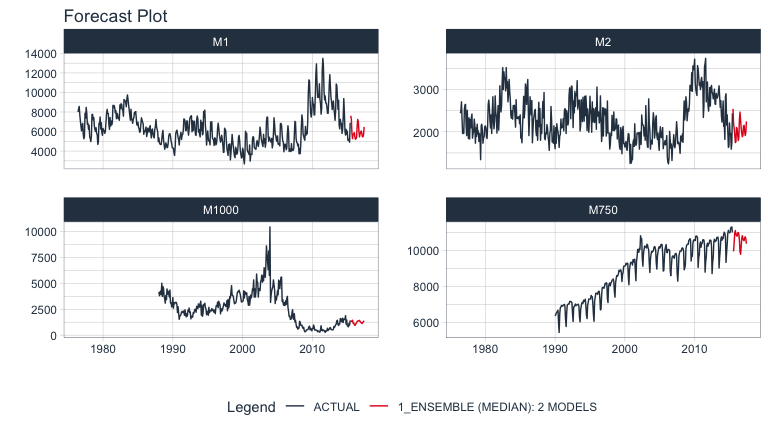
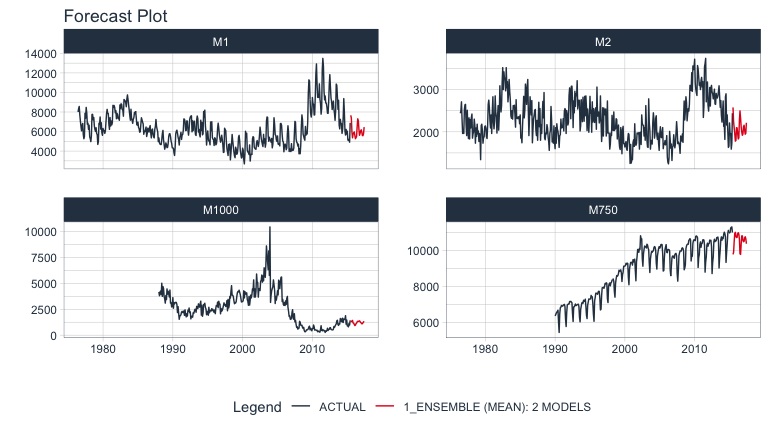
update vignette / pkgdown

diff --git a/docs/articles/recursive-ensembles.html b/docs/articles/recursive-ensembles.html
@@ -5,7 +5,7 @@
 <meta charset="utf-8">
 <meta http-equiv="X-UA-Compatible" content="IE=edge">
 <meta name="viewport" content="width=device-width, initial-scale=1.0">
-<title>Forecasting with Recursive Ensembles • modeltime.ensemble</title>
+<title>Autoregressive Forecasting (Recursive Ensembles) • modeltime.ensemble</title>
 <!-- favicons --><link rel="icon" type="image/png" sizes="16x16" href="../favicon-16x16.png">
 <link rel="icon" type="image/png" sizes="32x32" href="../favicon-32x32.png">
 <link rel="apple-touch-icon" type="image/png" sizes="180x180" href="../apple-touch-icon.png">
@@ -17,7 +17,7 @@
 <script src="../bootstrap-toc.js"></script><!-- Font Awesome icons --><link rel="stylesheet" href="https://cdnjs.cloudflare.com/ajax/libs/font-awesome/5.12.1/css/all.min.css" integrity="sha256-mmgLkCYLUQbXn0B1SRqzHar6dCnv9oZFPEC1g1cwlkk=" crossorigin="anonymous">
 <link rel="stylesheet" href="https://cdnjs.cloudflare.com/ajax/libs/font-awesome/5.12.1/css/v4-shims.min.css" integrity="sha256-wZjR52fzng1pJHwx4aV2AO3yyTOXrcDW7jBpJtTwVxw=" crossorigin="anonymous">
 <!-- clipboard.js --><script src="https://cdnjs.cloudflare.com/ajax/libs/clipboard.js/2.0.6/clipboard.min.js" integrity="sha256-inc5kl9MA1hkeYUt+EC3BhlIgyp/2jDIyBLS6k3UxPI=" crossorigin="anonymous"></script><!-- headroom.js --><script src="https://cdnjs.cloudflare.com/ajax/libs/headroom/0.11.0/headroom.min.js" integrity="sha256-AsUX4SJE1+yuDu5+mAVzJbuYNPHj/WroHuZ8Ir/CkE0=" crossorigin="anonymous"></script><script src="https://cdnjs.cloudflare.com/ajax/libs/headroom/0.11.0/jQuery.headroom.min.js" integrity="sha256-ZX/yNShbjqsohH1k95liqY9Gd8uOiE1S4vZc+9KQ1K4=" crossorigin="anonymous"></script><!-- pkgdown --><link href="../pkgdown.css" rel="stylesheet">
-<script src="../pkgdown.js"></script><meta property="og:title" content="Forecasting with Recursive Ensembles">
+<script src="../pkgdown.js"></script><meta property="og:title" content="Autoregressive Forecasting (Recursive Ensembles)">
 <meta property="og:description" content="modeltime.ensemble">
 <!-- mathjax --><script src="https://cdnjs.cloudflare.com/ajax/libs/mathjax/2.7.5/MathJax.js" integrity="sha256-nvJJv9wWKEm88qvoQl9ekL2J+k/RWIsaSScxxlsrv8k=" crossorigin="anonymous"></script><script src="https://cdnjs.cloudflare.com/ajax/libs/mathjax/2.7.5/config/TeX-AMS-MML_HTMLorMML.js" integrity="sha256-84DKXVJXs0/F8OTMzX4UR909+jtl4G7SPypPavF+GfA=" crossorigin="anonymous"></script><!--[if lt IE 9]>
 <script src="https://oss.maxcdn.com/html5shiv/3.7.3/html5shiv.min.js"></script>
@@ -70,7 +70,7 @@
       <a href="../articles/getting-started-with-modeltime-ensemble.html">Getting Started with Modeltime</a>
     </li>
     <li>
-      <a href="../articles/recursive-ensembles.html">Recursive Ensemble Forecasting</a>
+      <a href="../articles/recursive-ensembles.html">Autoregressive Forecasting (Recursive Ensembles)</a>
     </li>
   </ul>
 </li>
@@ -156,7 +156,7 @@
       </header><script src="recursive-ensembles_files/header-attrs-2.7/header-attrs.js"></script><div class="row">
   <div class="col-md-9 contents">
     <div class="page-header toc-ignore">
-      <h1 data-toc-skip>Forecasting with Recursive Ensembles</h1>
+      <h1 data-toc-skip>Autoregressive Forecasting (Recursive Ensembles)</h1>
             
       
       <small class="dont-index">Source: <a href="https://github.com/business-science/modeltime.ensemble/blob/master/vignettes/recursive-ensembles.Rmd"><code>vignettes/recursive-ensembles.Rmd</code></a></small>
@@ -180,7 +180,7 @@
 <li><p><strong>Single ensemble recursive predictions</strong> - Effectively turning any <code>ensemble</code> model into an Autoregressive (AR) model</p></li>
 <li><p><strong>Panel ensembles recursive predictions</strong> - In many situations we need to forecast <strong>more than one time series</strong>. We can batch-process these with 1 model by processing time series groups as panels. This technique can be extended to recursive forecasting for scalable models (1 model that predicts many time series).</p></li>
 </ol>
-<p>Here’s an example of a panel forecast that uses a recursive ensemble with a Linear Regression and MARS model.</p>
+<p>Here’s an example of a panel forecast that uses a recursive ensemble with a Elastic Net and MARS model.</p>
 <p><img src="panel-ensemble.jpg" width="95%" style="display: block; margin: auto;"></p>
 </div>
 <div id="single-ensemble-recursive-example" class="section level1">
@@ -194,6 +194,8 @@
 <code class="sourceCode R"><span class="kw"><a href="https://rdrr.io/r/base/library.html">library</a></span><span class="op">(</span><span class="va"><a href="https://github.com/business-science/modeltime.ensemble">modeltime.ensemble</a></span><span class="op">)</span>
 <span class="kw"><a href="https://rdrr.io/r/base/library.html">library</a></span><span class="op">(</span><span class="va"><a href="https://github.com/business-science/modeltime">modeltime</a></span><span class="op">)</span>
 <span class="kw"><a href="https://rdrr.io/r/base/library.html">library</a></span><span class="op">(</span><span class="va"><a href="https://tidymodels.tidymodels.org">tidymodels</a></span><span class="op">)</span>
+<span class="kw"><a href="https://rdrr.io/r/base/library.html">library</a></span><span class="op">(</span><span class="va"><a href="http://www.milbo.users.sonic.net/earth/">earth</a></span><span class="op">)</span>
+<span class="kw"><a href="https://rdrr.io/r/base/library.html">library</a></span><span class="op">(</span><span class="va"><a href="https://glmnet.stanford.edu">glmnet</a></span><span class="op">)</span>
 <span class="kw"><a href="https://rdrr.io/r/base/library.html">library</a></span><span class="op">(</span><span class="va"><a href="http://tidyverse.tidyverse.org">tidyverse</a></span><span class="op">)</span>
 <span class="kw"><a href="https://rdrr.io/r/base/library.html">library</a></span><span class="op">(</span><span class="va"><a href="https://lubridate.tidyverse.org">lubridate</a></span><span class="op">)</span>
 <span class="kw"><a href="https://rdrr.io/r/base/library.html">library</a></span><span class="op">(</span><span class="va"><a href="https://github.com/business-science/timetk">timetk</a></span><span class="op">)</span></code></pre></div>
@@ -208,34 +210,35 @@
         .bind_data  <span class="op">=</span> <span class="cn">TRUE</span>
     <span class="op">)</span> <span class="op">%&gt;%</span>
     <span class="fu">ungroup</span><span class="op">(</span><span class="op">)</span></code></pre></div>
-<p>The next step is to create a recipe where we specify the formula we are going to use and create the lagged variables that our model will use. Notice that we create lags up to our forecast horizon.</p>
+<p>The next step is to create a <strong><em>Transformer Function</em></strong> where we create the lagged variables that our model will use. Notice that we create lags up to our forecast horizon. We could also include rolling features and any number of other “engineered features” based on lags.</p>
 <div class="sourceCode" id="cb3"><pre class="downlit sourceCode r">
-<code class="sourceCode R"><span class="va">recipe_lag</span> <span class="op">&lt;-</span> <span class="fu">recipe</span><span class="op">(</span><span class="va">value</span> <span class="op">~</span> <span class="va">date</span>, <span class="va">m750_extended</span><span class="op">)</span> <span class="op">%&gt;%</span>
-    <span class="fu">step_lag</span><span class="op">(</span><span class="va">value</span>, lag <span class="op">=</span> <span class="fl">1</span><span class="op">:</span><span class="va">FORECAST_HORIZON</span><span class="op">)</span>
+<code class="sourceCode R"><span class="va">lag_transformer</span> <span class="op">&lt;-</span> <span class="kw">function</span><span class="op">(</span><span class="va">data</span><span class="op">)</span><span class="op">{</span>
+    <span class="va">data</span> <span class="op">%&gt;%</span>
+        <span class="fu"><a href="https://rdrr.io/pkg/timetk/man/tk_augment_lags.html">tk_augment_lags</a></span><span class="op">(</span><span class="va">value</span>, .lags <span class="op">=</span> <span class="fl">1</span><span class="op">:</span><span class="va">FORECAST_HORIZON</span><span class="op">)</span>
+<span class="op">}</span>
 
 <span class="co"># Data Preparation</span>
-<span class="va">m750_lagged</span> <span class="op">&lt;-</span> <span class="va">recipe_lag</span> <span class="op">%&gt;%</span> <span class="fu">prep</span><span class="op">(</span><span class="op">)</span> <span class="op">%&gt;%</span> <span class="fu">juice</span><span class="op">(</span><span class="op">)</span>
+<span class="va">m750_lagged</span> <span class="op">&lt;-</span> <span class="va">m750_extended</span> <span class="op">%&gt;%</span> <span class="fu">lag_transformer</span><span class="op">(</span><span class="op">)</span>
 <span class="va">m750_lagged</span></code></pre></div>
-<pre><code>#&gt; # A tibble: 330 x 26
-#&gt;    date       value lag_1_value lag_2_value lag_3_value lag_4_value lag_5_value
-#&gt;    &lt;date&gt;     &lt;dbl&gt;       &lt;dbl&gt;       &lt;dbl&gt;       &lt;dbl&gt;       &lt;dbl&gt;       &lt;dbl&gt;
-#&gt;  1 1990-01-01  6370          NA          NA          NA          NA          NA
-#&gt;  2 1990-02-01  6430        6370          NA          NA          NA          NA
-#&gt;  3 1990-03-01  6520        6430        6370          NA          NA          NA
-#&gt;  4 1990-04-01  6580        6520        6430        6370          NA          NA
-#&gt;  5 1990-05-01  6620        6580        6520        6430        6370          NA
-#&gt;  6 1990-06-01  6690        6620        6580        6520        6430        6370
-#&gt;  7 1990-07-01  6000        6690        6620        6580        6520        6430
-#&gt;  8 1990-08-01  5450        6000        6690        6620        6580        6520
-#&gt;  9 1990-09-01  6480        5450        6000        6690        6620        6580
-#&gt; 10 1990-10-01  6820        6480        5450        6000        6690        6620
-#&gt; # … with 320 more rows, and 19 more variables: lag_6_value &lt;dbl&gt;,
-#&gt; #   lag_7_value &lt;dbl&gt;, lag_8_value &lt;dbl&gt;, lag_9_value &lt;dbl&gt;,
-#&gt; #   lag_10_value &lt;dbl&gt;, lag_11_value &lt;dbl&gt;, lag_12_value &lt;dbl&gt;,
-#&gt; #   lag_13_value &lt;dbl&gt;, lag_14_value &lt;dbl&gt;, lag_15_value &lt;dbl&gt;,
-#&gt; #   lag_16_value &lt;dbl&gt;, lag_17_value &lt;dbl&gt;, lag_18_value &lt;dbl&gt;,
-#&gt; #   lag_19_value &lt;dbl&gt;, lag_20_value &lt;dbl&gt;, lag_21_value &lt;dbl&gt;,
-#&gt; #   lag_22_value &lt;dbl&gt;, lag_23_value &lt;dbl&gt;, lag_24_value &lt;dbl&gt;</code></pre>
+<pre><code>#&gt; # A tibble: 330 x 27
+#&gt;    id    date       value value_lag1 value_lag2 value_lag3 value_lag4 value_lag5
+#&gt;    &lt;fct&gt; &lt;date&gt;     &lt;dbl&gt;      &lt;dbl&gt;      &lt;dbl&gt;      &lt;dbl&gt;      &lt;dbl&gt;      &lt;dbl&gt;
+#&gt;  1 M750  1990-01-01  6370         NA         NA         NA         NA         NA
+#&gt;  2 M750  1990-02-01  6430       6370         NA         NA         NA         NA
+#&gt;  3 M750  1990-03-01  6520       6430       6370         NA         NA         NA
+#&gt;  4 M750  1990-04-01  6580       6520       6430       6370         NA         NA
+#&gt;  5 M750  1990-05-01  6620       6580       6520       6430       6370         NA
+#&gt;  6 M750  1990-06-01  6690       6620       6580       6520       6430       6370
+#&gt;  7 M750  1990-07-01  6000       6690       6620       6580       6520       6430
+#&gt;  8 M750  1990-08-01  5450       6000       6690       6620       6580       6520
+#&gt;  9 M750  1990-09-01  6480       5450       6000       6690       6620       6580
+#&gt; 10 M750  1990-10-01  6820       6480       5450       6000       6690       6620
+#&gt; # … with 320 more rows, and 19 more variables: value_lag6 &lt;dbl&gt;,
+#&gt; #   value_lag7 &lt;dbl&gt;, value_lag8 &lt;dbl&gt;, value_lag9 &lt;dbl&gt;, value_lag10 &lt;dbl&gt;,
+#&gt; #   value_lag11 &lt;dbl&gt;, value_lag12 &lt;dbl&gt;, value_lag13 &lt;dbl&gt;, value_lag14 &lt;dbl&gt;,
+#&gt; #   value_lag15 &lt;dbl&gt;, value_lag16 &lt;dbl&gt;, value_lag17 &lt;dbl&gt;, value_lag18 &lt;dbl&gt;,
+#&gt; #   value_lag19 &lt;dbl&gt;, value_lag20 &lt;dbl&gt;, value_lag21 &lt;dbl&gt;, value_lag22 &lt;dbl&gt;,
+#&gt; #   value_lag23 &lt;dbl&gt;, value_lag24 &lt;dbl&gt;</code></pre>
 <p>We divide the data set into training dataset and future dataset:</p>
 <div class="sourceCode" id="cb5"><pre class="downlit sourceCode r">
 <code class="sourceCode R"><span class="va">train_data</span> <span class="op">&lt;-</span> <span class="va">m750_lagged</span> <span class="op">%&gt;%</span>
@@ -244,16 +247,26 @@
 
 <span class="va">future_data</span> <span class="op">&lt;-</span> <span class="va">m750_lagged</span> <span class="op">%&gt;%</span>
     <span class="fu"><a href="https://rdrr.io/r/stats/filter.html">filter</a></span><span class="op">(</span><span class="fu"><a href="https://rdrr.io/r/base/NA.html">is.na</a></span><span class="op">(</span><span class="va">value</span><span class="op">)</span><span class="op">)</span></code></pre></div>
-<p>Next, we are going to create two models that we will then join into an ensemble. The first model is a linear model while the second model is a MARS model. In a real scenario, we would typically do a pre-selection work where we would analyze more models and keep those with better performance to make the ensemble.</p>
+<p>Next, we are going to create two models that we will then join into an ensemble.</p>
+<ol style="list-style-type: decimal">
+<li>The first model is a Linear Regression model</li>
+<li>The second model is a MARS model</li>
+</ol>
+<p>In a real scenario, we would typically do a pre-selection work where we would analyze more models and keep those with better performance to make the ensemble.</p>
 <div class="sourceCode" id="cb6"><pre class="downlit sourceCode r">
 <code class="sourceCode R"><span class="va">model_fit_lm</span> <span class="op">&lt;-</span> <span class="fu">linear_reg</span><span class="op">(</span><span class="op">)</span> <span class="op">%&gt;%</span>
     <span class="fu">set_engine</span><span class="op">(</span><span class="st">"lm"</span><span class="op">)</span> <span class="op">%&gt;%</span>
-    <span class="fu">fit</span><span class="op">(</span><span class="va">value</span> <span class="op">~</span> <span class="va">.</span>, data <span class="op">=</span> <span class="va">train_data</span><span class="op">)</span>
+    <span class="fu">fit</span><span class="op">(</span><span class="va">value</span> <span class="op">~</span> <span class="va">.</span>, data <span class="op">=</span> <span class="va">train_data</span> <span class="op">%&gt;%</span> <span class="fu">select</span><span class="op">(</span><span class="op">-</span><span class="va">id</span><span class="op">)</span><span class="op">)</span>
 
 <span class="va">model_fit_mars</span> <span class="op">&lt;-</span> <span class="fu">mars</span><span class="op">(</span><span class="st">"regression"</span><span class="op">)</span> <span class="op">%&gt;%</span>
     <span class="fu">set_engine</span><span class="op">(</span><span class="st">"earth"</span>, endspan <span class="op">=</span> <span class="fl">24</span><span class="op">)</span> <span class="op">%&gt;%</span>
-    <span class="fu">fit</span><span class="op">(</span><span class="va">value</span> <span class="op">~</span> <span class="va">.</span>, data <span class="op">=</span> <span class="va">train_data</span><span class="op">)</span></code></pre></div>
-<p>The next step is to create an ensemble of type mean (in which the predictions of the two models will be averaged) and right after that we use the <code><a href="https://rdrr.io/pkg/modeltime/man/recursive.html">recursive()</a></code> function to create the recursive model. You can consult all the information of the function by typing in the console <code><a href="https://rdrr.io/pkg/modeltime/man/recursive.html">?modeltime::recursive</a></code>.</p>
+    <span class="fu">fit</span><span class="op">(</span><span class="va">value</span> <span class="op">~</span> <span class="va">.</span>, data <span class="op">=</span> <span class="va">train_data</span> <span class="op">%&gt;%</span> <span class="fu">select</span><span class="op">(</span><span class="op">-</span><span class="va">id</span><span class="op">)</span><span class="op">)</span></code></pre></div>
+<p>The next step is to create an ensemble of type mean (in which the predictions of the two models will be averaged) and right after that we use the <code><a href="https://rdrr.io/pkg/modeltime/man/recursive.html">recursive()</a></code> function to create the recursive model.</p>
+<ul>
+<li>The <code><a href="https://rdrr.io/pkg/modeltime/man/recursive.html">recursive()</a></code> function tells the ensemble to use recursion during the prediction process</li>
+<li>The recursive model uses the <strong><em>Transformer Function</em></strong> and <code>train_tail</code> to generate transformations (e.g. lags) during the prediction process</li>
+</ul>
+<p>You can consult all the information of the function by typing in the console <code><a href="https://rdrr.io/pkg/modeltime/man/recursive.html">?modeltime::recursive</a></code>.</p>
 <div class="sourceCode" id="cb7"><pre class="downlit sourceCode r">
 <code class="sourceCode R"><span class="va">recursive_ensemble</span> <span class="op">&lt;-</span> <span class="fu"><a href="https://rdrr.io/pkg/modeltime/man/modeltime_table.html">modeltime_table</a></span><span class="op">(</span>
     <span class="va">model_fit_lm</span>,
@@ -261,7 +274,7 @@
 <span class="op">)</span> <span class="op">%&gt;%</span>
     <span class="fu"><a href="../reference/ensemble_average.html">ensemble_average</a></span><span class="op">(</span>type <span class="op">=</span> <span class="st">"mean"</span><span class="op">)</span> <span class="op">%&gt;%</span>
     <span class="fu"><a href="https://rdrr.io/pkg/modeltime/man/recursive.html">recursive</a></span><span class="op">(</span>
-        transform  <span class="op">=</span> <span class="va">recipe_lag</span>,
+        transform  <span class="op">=</span> <span class="va">lag_transformer</span>,
         train_tail <span class="op">=</span> <span class="fu"><a href="https://rdrr.io/r/utils/head.html">tail</a></span><span class="op">(</span><span class="va">train_data</span>, <span class="va">FORECAST_HORIZON</span><span class="op">)</span>
     <span class="op">)</span>
 
@@ -311,7 +324,7 @@
         .bind_data  <span class="op">=</span> <span class="cn">TRUE</span>
     <span class="op">)</span> <span class="op">%&gt;%</span>
     <span class="fu">ungroup</span><span class="op">(</span><span class="op">)</span></code></pre></div>
-<p>Then we create a transformer function that will be in charge of generating the lags for each time series up to each forecasting horizon:</p>
+<p>Then we create a <strong><em>Transformer Function</em></strong> that will be in charge of generating the lags for each time series up to each forecasting horizon. Note that this time we use <strong>grouped lags</strong> to generate lags by group. This is important when we have multiple time series. Make sure to ungroup after the lagging process.</p>
 <div class="sourceCode" id="cb11"><pre class="downlit sourceCode r">
 <code class="sourceCode R"><span class="va">lag_transformer_grouped</span> <span class="op">&lt;-</span> <span class="kw">function</span><span class="op">(</span><span class="va">data</span><span class="op">)</span><span class="op">{</span>
     <span class="va">data</span> <span class="op">%&gt;%</span>
@@ -344,50 +357,60 @@
 #&gt; #   value_lag15 &lt;dbl&gt;, value_lag16 &lt;dbl&gt;, value_lag17 &lt;dbl&gt;, value_lag18 &lt;dbl&gt;,
 #&gt; #   value_lag19 &lt;dbl&gt;, value_lag20 &lt;dbl&gt;, value_lag21 &lt;dbl&gt;, value_lag22 &lt;dbl&gt;,
 #&gt; #   value_lag23 &lt;dbl&gt;, value_lag24 &lt;dbl&gt;</code></pre>
+<p>We split into training data and future data.</p>
 <div class="sourceCode" id="cb14"><pre class="downlit sourceCode r">
 <code class="sourceCode R"><span class="va">train_data</span> <span class="op">&lt;-</span> <span class="va">m4_lags</span> <span class="op">%&gt;%</span>
     <span class="fu">drop_na</span><span class="op">(</span><span class="op">)</span>
 
 <span class="va">future_data</span> <span class="op">&lt;-</span> <span class="va">m4_lags</span> <span class="op">%&gt;%</span>
     <span class="fu"><a href="https://rdrr.io/r/stats/filter.html">filter</a></span><span class="op">(</span><span class="fu"><a href="https://rdrr.io/r/base/NA.html">is.na</a></span><span class="op">(</span><span class="va">value</span><span class="op">)</span><span class="op">)</span></code></pre></div>
-<p>Next, we are going to create two models that we will then join into an ensemble. The first model is a linear model while the second model is a MARS model.</p>
+<p>Next, we are going to create two models that we will then join into an ensemble.</p>
+<ol style="list-style-type: decimal">
+<li>The first model is an Elastic Net (GLMNET) model</li>
+<li>The second model is a MARS model</li>
+</ol>
+<p>The elastic net applies penalty to the lagged regressors preventing bad lags from dominating the results. This can show an improvement versus a standard Linear Regression.</p>
 <div class="sourceCode" id="cb15"><pre class="downlit sourceCode r">
-<code class="sourceCode R"><span class="va">model_fit_lm</span> <span class="op">&lt;-</span> <span class="fu">linear_reg</span><span class="op">(</span><span class="op">)</span> <span class="op">%&gt;%</span>
-    <span class="fu">set_engine</span><span class="op">(</span><span class="st">"lm"</span><span class="op">)</span> <span class="op">%&gt;%</span>
+<code class="sourceCode R"><span class="va">model_fit_glmnet</span> <span class="op">&lt;-</span> <span class="fu">linear_reg</span><span class="op">(</span>penalty <span class="op">=</span> <span class="fl">1</span><span class="op">)</span> <span class="op">%&gt;%</span>
+    <span class="fu">set_engine</span><span class="op">(</span><span class="st">"glmnet"</span><span class="op">)</span> <span class="op">%&gt;%</span>
     <span class="fu">fit</span><span class="op">(</span><span class="va">value</span> <span class="op">~</span> <span class="va">.</span>, data <span class="op">=</span> <span class="va">train_data</span><span class="op">)</span>
 
-<span class="va">model_fit_mars</span> <span class="op">&lt;-</span> <span class="fu">mars</span><span class="op">(</span><span class="st">"regression"</span><span class="op">)</span> <span class="op">%&gt;%</span>
-    <span class="fu">set_engine</span><span class="op">(</span><span class="st">"earth"</span><span class="op">)</span> <span class="op">%&gt;%</span>
+<span class="va">model_fit_mars</span> <span class="op">&lt;-</span> <span class="fu">mars</span><span class="op">(</span><span class="st">"regression"</span>, num_terms <span class="op">=</span> <span class="fl">7</span><span class="op">)</span> <span class="op">%&gt;%</span>
+    <span class="fu">set_engine</span><span class="op">(</span><span class="st">"earth"</span>, endspan <span class="op">=</span> <span class="fl">24</span><span class="op">)</span> <span class="op">%&gt;%</span>
     <span class="fu">fit</span><span class="op">(</span><span class="va">value</span> <span class="op">~</span> <span class="va">.</span>, data <span class="op">=</span> <span class="va">train_data</span><span class="op">)</span></code></pre></div>
-<p>The next step is to create an ensemble of type mean (in which the predictions of the two models will be averaged) and right after that we use the <code><a href="https://rdrr.io/pkg/modeltime/man/recursive.html">recursive()</a></code> function to create the recursive model. Note that unlike the previous example, in this case we have to pass to the recursive function the argument <code>id</code> and we have to use the <code><a href="https://rdrr.io/pkg/modeltime/man/panel_tail.html">panel_tail()</a></code> function to create the train_tail.</p>
+<p>The next step is to create an ensemble of type mean (in which the predictions of the two models will be averaged) and right after that we use the <code><a href="https://rdrr.io/pkg/modeltime/man/recursive.html">recursive()</a></code> function to create the recursive model. Unlike the previous example:</p>
+<ul>
+<li>We have to pass to the recursive function the argument <code>id</code> specifying ID’s for each time series group</li>
+<li>We have to use the <code><a href="https://rdrr.io/pkg/modeltime/man/panel_tail.html">panel_tail()</a></code> function to create the train_tail by group.</li>
+</ul>
 <div class="sourceCode" id="cb16"><pre class="downlit sourceCode r">
-<code class="sourceCode R"><span class="va">recursive_ensemble_p</span> <span class="op">&lt;-</span> <span class="fu"><a href="https://rdrr.io/pkg/modeltime/man/modeltime_table.html">modeltime_table</a></span><span class="op">(</span>
+<code class="sourceCode R"><span class="va">recursive_ensemble_panel</span> <span class="op">&lt;-</span> <span class="fu"><a href="https://rdrr.io/pkg/modeltime/man/modeltime_table.html">modeltime_table</a></span><span class="op">(</span>
     <span class="va">model_fit_mars</span>,
-    <span class="va">model_fit_lm</span>
+    <span class="va">model_fit_glmnet</span>
 <span class="op">)</span> <span class="op">%&gt;%</span>
-    <span class="fu"><a href="../reference/ensemble_average.html">ensemble_average</a></span><span class="op">(</span>type <span class="op">=</span> <span class="st">"median"</span><span class="op">)</span> <span class="op">%&gt;%</span>
+    <span class="fu"><a href="../reference/ensemble_average.html">ensemble_average</a></span><span class="op">(</span>type <span class="op">=</span> <span class="st">"mean"</span><span class="op">)</span> <span class="op">%&gt;%</span>
     <span class="fu"><a href="https://rdrr.io/pkg/modeltime/man/recursive.html">recursive</a></span><span class="op">(</span>
         transform  <span class="op">=</span> <span class="va">lag_transformer_grouped</span>,
         train_tail <span class="op">=</span> <span class="fu"><a href="https://rdrr.io/pkg/modeltime/man/panel_tail.html">panel_tail</a></span><span class="op">(</span><span class="va">train_data</span>, <span class="va">id</span>, <span class="va">FORECAST_HORIZON</span><span class="op">)</span>,
-        id <span class="op">=</span> <span class="st">"id"</span>
+        id         <span class="op">=</span> <span class="st">"id"</span>
     <span class="op">)</span>
 
-<span class="va">recursive_ensemble_p</span></code></pre></div>
+<span class="va">recursive_ensemble_panel</span></code></pre></div>
 <pre><code>#&gt; Recursive [modeltime ensemble]
 #&gt; 
 #&gt; ── Modeltime Ensemble ───────────────────────────────────────────
-#&gt; Ensemble of 2 Models (MEDIAN)
+#&gt; Ensemble of 2 Models (MEAN)
 #&gt; 
 #&gt; # Modeltime Table
 #&gt; # A tibble: 2 x 3
 #&gt;   .model_id .model   .model_desc
 #&gt;       &lt;int&gt; &lt;list&gt;   &lt;chr&gt;      
 #&gt; 1         1 &lt;fit[+]&gt; EARTH      
-#&gt; 2         2 &lt;fit[+]&gt; LM</code></pre>
+#&gt; 2         2 &lt;fit[+]&gt; GLMNET</code></pre>
 <p>Finally, we predict over our dataset and visualize the predictions:</p>
 <div class="sourceCode" id="cb18"><pre class="downlit sourceCode r">
 <code class="sourceCode R"><span class="va">fcast</span> <span class="op">&lt;-</span> <span class="fu"><a href="https://rdrr.io/pkg/modeltime/man/modeltime_table.html">modeltime_table</a></span><span class="op">(</span>
-    <span class="va">recursive_ensemble_p</span>
+    <span class="va">recursive_ensemble_panel</span>
 <span class="op">)</span> <span class="op">%&gt;%</span>
     <span class="fu"><a href="https://rdrr.io/pkg/modeltime/man/modeltime_forecast.html">modeltime_forecast</a></span><span class="op">(</span>
         new_data <span class="op">=</span> <span class="va">future_data</span>,

diff --git a/docs/reference/ensemble_model_spec.html b/docs/reference/ensemble_model_spec.html
@@ -121,7 +121,7 @@ Predictions using ensemble_model_spec().
       <a href="../articles/getting-started-with-modeltime-ensemble.html">Getting Started with Modeltime</a>
     </li>
     <li>
-      <a href="../articles/recursive-ensembles.html">Recursive Ensemble Forecasting</a>
+      <a href="../articles/recursive-ensembles.html">Autoregressive Forecasting (Recursive Ensembles)</a>
     </li>
   </ul>
 </li>
@@ -337,7 +337,7 @@ up parallelization using <code>tune</code> via one of the backends such as
         control   <span class='op'>=</span> <span class='fu'>control_resamples</span><span class='op'>(</span>verbose <span class='op'>=</span> <span class='cn'>TRUE</span><span class='op'>)</span>
     <span class='op'>)</span>
 </div><div class='output co'>#&gt; ── Fitting Resamples ────────────────────────────────────────────
-#&gt; </div><div class='output co'>#&gt; <span class='message'>● Model ID: <span style='color: #0000BB;'>1</span><span> </span><span style='color: #0000BB;'>ARIMA(0,1,1)(0,1,1)[12]</span><span></span></div><div class='output co'>#&gt; <span class='message'></span><span style='color: #0000BB;'>i</span><span> </span><span style='color: #000000;'>Slice1: preprocessor 1/1</span><span></span></div><div class='output co'>#&gt; <span class='message'></span><span style='color: #00BB00;'>✓</span><span> </span><span style='color: #000000;'>Slice1: preprocessor 1/1</span><span></span></div><div class='output co'>#&gt; <span class='message'></span><span style='color: #0000BB;'>i</span><span> </span><span style='color: #000000;'>Slice1: preprocessor 1/1, model 1/1</span><span></span></div><div class='output co'>#&gt; <span class='message'>frequency = 12 observations per 1 year</span></div><div class='output co'>#&gt; <span class='message'></span><span style='color: #00BB00;'>✓</span><span> </span><span style='color: #000000;'>Slice1: preprocessor 1/1, model 1/1</span><span></span></div><div class='output co'>#&gt; <span class='message'></span><span style='color: #0000BB;'>i</span><span> </span><span style='color: #000000;'>Slice1: preprocessor 1/1, model 1/1 (predictions)</span><span></span></div><div class='output co'>#&gt; <span class='message'>● Model ID: </span><span style='color: #0000BB;'>2</span><span> </span><span style='color: #0000BB;'>PROPHET</span><span></span></div><div class='output co'>#&gt; <span class='message'></span><span style='color: #0000BB;'>i</span><span> </span><span style='color: #000000;'>Slice1: preprocessor 1/1</span><span></span></div><div class='output co'>#&gt; <span class='message'></span><span style='color: #00BB00;'>✓</span><span> </span><span style='color: #000000;'>Slice1: preprocessor 1/1</span><span></span></div><div class='output co'>#&gt; <span class='message'></span><span style='color: #0000BB;'>i</span><span> </span><span style='color: #000000;'>Slice1: preprocessor 1/1, model 1/1</span><span></span></div><div class='output co'>#&gt; <span class='message'>Disabling weekly seasonality. Run prophet with weekly.seasonality=TRUE to override this.</span></div><div class='output co'>#&gt; <span class='message'>Disabling daily seasonality. Run prophet with daily.seasonality=TRUE to override this.</span></div><div class='output co'>#&gt; <span class='message'></span><span style='color: #00BB00;'>✓</span><span> </span><span style='color: #000000;'>Slice1: preprocessor 1/1, model 1/1</span><span></span></div><div class='output co'>#&gt; <span class='message'></span><span style='color: #0000BB;'>i</span><span> </span><span style='color: #000000;'>Slice1: preprocessor 1/1, model 1/1 (predictions)</span><span></span></div><div class='output co'>#&gt; <span class='message'>● Model ID: </span><span style='color: #0000BB;'>3</span><span> </span><span style='color: #0000BB;'>GLMNET</span><span></span></div><div class='output co'>#&gt; <span class='message'></span><span style='color: #0000BB;'>i</span><span> </span><span style='color: #000000;'>Slice1: preprocessor 1/1</span><span></span></div><div class='output co'>#&gt; <span class='message'></span><span style='color: #00BB00;'>✓</span><span> </span><span style='color: #000000;'>Slice1: preprocessor 1/1</span><span></span></div><div class='output co'>#&gt; <span class='message'></span><span style='color: #0000BB;'>i</span><span> </span><span style='color: #000000;'>Slice1: preprocessor 1/1, model 1/1</span><span></span></div><div class='output co'>#&gt; <span class='message'></span><span style='color: #00BB00;'>✓</span><span> </span><span style='color: #000000;'>Slice1: preprocessor 1/1, model 1/1</span><span></span></div><div class='output co'>#&gt; <span class='message'></span><span style='color: #0000BB;'>i</span><span> </span><span style='color: #000000;'>Slice1: preprocessor 1/1, model 1/1 (predictions)</span><span></span></div><div class='output co'>#&gt; 3.784 sec elapsed
+#&gt; </div><div class='output co'>#&gt; <span class='message'>● Model ID: <span style='color: #0000BB;'>1</span><span> </span><span style='color: #0000BB;'>ARIMA(0,1,1)(0,1,1)[12]</span><span></span></div><div class='output co'>#&gt; <span class='message'></span><span style='color: #0000BB;'>i</span><span> </span><span style='color: #000000;'>Slice1: preprocessor 1/1</span><span></span></div><div class='output co'>#&gt; <span class='message'></span><span style='color: #00BB00;'>✓</span><span> </span><span style='color: #000000;'>Slice1: preprocessor 1/1</span><span></span></div><div class='output co'>#&gt; <span class='message'></span><span style='color: #0000BB;'>i</span><span> </span><span style='color: #000000;'>Slice1: preprocessor 1/1, model 1/1</span><span></span></div><div class='output co'>#&gt; <span class='message'>frequency = 12 observations per 1 year</span></div><div class='output co'>#&gt; <span class='message'></span><span style='color: #00BB00;'>✓</span><span> </span><span style='color: #000000;'>Slice1: preprocessor 1/1, model 1/1</span><span></span></div><div class='output co'>#&gt; <span class='message'></span><span style='color: #0000BB;'>i</span><span> </span><span style='color: #000000;'>Slice1: preprocessor 1/1, model 1/1 (predictions)</span><span></span></div><div class='output co'>#&gt; <span class='message'>● Model ID: </span><span style='color: #0000BB;'>2</span><span> </span><span style='color: #0000BB;'>PROPHET</span><span></span></div><div class='output co'>#&gt; <span class='message'></span><span style='color: #0000BB;'>i</span><span> </span><span style='color: #000000;'>Slice1: preprocessor 1/1</span><span></span></div><div class='output co'>#&gt; <span class='message'></span><span style='color: #00BB00;'>✓</span><span> </span><span style='color: #000000;'>Slice1: preprocessor 1/1</span><span></span></div><div class='output co'>#&gt; <span class='message'></span><span style='color: #0000BB;'>i</span><span> </span><span style='color: #000000;'>Slice1: preprocessor 1/1, model 1/1</span><span></span></div><div class='output co'>#&gt; <span class='message'>Disabling weekly seasonality. Run prophet with weekly.seasonality=TRUE to override this.</span></div><div class='output co'>#&gt; <span class='message'>Disabling daily seasonality. Run prophet with daily.seasonality=TRUE to override this.</span></div><div class='output co'>#&gt; <span class='message'></span><span style='color: #00BB00;'>✓</span><span> </span><span style='color: #000000;'>Slice1: preprocessor 1/1, model 1/1</span><span></span></div><div class='output co'>#&gt; <span class='message'></span><span style='color: #0000BB;'>i</span><span> </span><span style='color: #000000;'>Slice1: preprocessor 1/1, model 1/1 (predictions)</span><span></span></div><div class='output co'>#&gt; <span class='message'>● Model ID: </span><span style='color: #0000BB;'>3</span><span> </span><span style='color: #0000BB;'>GLMNET</span><span></span></div><div class='output co'>#&gt; <span class='message'></span><span style='color: #0000BB;'>i</span><span> </span><span style='color: #000000;'>Slice1: preprocessor 1/1</span><span></span></div><div class='output co'>#&gt; <span class='message'></span><span style='color: #00BB00;'>✓</span><span> </span><span style='color: #000000;'>Slice1: preprocessor 1/1</span><span></span></div><div class='output co'>#&gt; <span class='message'></span><span style='color: #0000BB;'>i</span><span> </span><span style='color: #000000;'>Slice1: preprocessor 1/1, model 1/1</span><span></span></div><div class='output co'>#&gt; <span class='message'></span><span style='color: #00BB00;'>✓</span><span> </span><span style='color: #000000;'>Slice1: preprocessor 1/1, model 1/1</span><span></span></div><div class='output co'>#&gt; <span class='message'></span><span style='color: #0000BB;'>i</span><span> </span><span style='color: #000000;'>Slice1: preprocessor 1/1, model 1/1 (predictions)</span><span></span></div><div class='output co'>#&gt; 4.074 sec elapsed
 #&gt; </div><div class='input'>
 <span class='co'># Step 2: Metalearner ----</span>
 
@@ -373,7 +373,7 @@ up parallelization using <code>tune</code> via one of the backends such as
 #&gt;  -2684.9718       0.4702      -0.0196       0.7962  
 #&gt; 
 #&gt; 
-#&gt; 0.353 sec elapsed
+#&gt; 0.361 sec elapsed
 #&gt; </div><div class='input'>
 <span class='va'>ensemble_fit_lm</span>
 </div><div class='output co'>#&gt; ── Modeltime Ensemble ───────────────────────────────────────────
@@ -472,7 +472,7 @@ up parallelization using <code>tune</code> via one of the backends such as
 #&gt; ...
 #&gt; and 19 more lines.
 #&gt; 
-#&gt; 3.873 sec elapsed
+#&gt; 4.027 sec elapsed
 #&gt; </div><div class='input'>
 <span class='va'>ensemble_fit_glmnet</span>
 </div><div class='output co'>#&gt; ── Modeltime Ensemble ───────────────────────────────────────────

diff --git a/docs/articles/index.html b/docs/articles/index.html
@@ -115,7 +115,7 @@
       <a href="../articles/getting-started-with-modeltime-ensemble.html">Getting Started with Modeltime</a>
     </li>
     <li>
-      <a href="../articles/recursive-ensembles.html">Recursive Ensemble Forecasting</a>
+      <a href="../articles/recursive-ensembles.html">Autoregressive Forecasting (Recursive Ensembles)</a>
     </li>
   </ul>
 </li>
@@ -211,7 +211,7 @@
       <dl>
         <dt><a href="getting-started-with-modeltime-ensemble.html">Getting Started with Modeltime Ensemble</a></dt>
         <dd></dt>
-        <dt><a href="recursive-ensembles.html">Forecasting with Recursive Ensembles</a></dt>
+        <dt><a href="recursive-ensembles.html">Autoregressive Forecasting (Recursive Ensembles)</a></dt>
         <dd></dt>
       </dl>
     </div>

diff --git a/docs/reference/tidyeval.html b/docs/reference/tidyeval.html
@@ -148,7 +148,7 @@ section of Advanced R." />
       <a href="../articles/getting-started-with-modeltime-ensemble.html">Getting Started with Modeltime</a>
     </li>
     <li>
-      <a href="../articles/recursive-ensembles.html">Recursive Ensemble Forecasting</a>
+      <a href="../articles/recursive-ensembles.html">Autoregressive Forecasting (Recursive Ensembles)</a>
     </li>
   </ul>
 </li>

diff --git a/docs/reference/type_sum.mdl_time_ensemble.html b/docs/reference/type_sum.mdl_time_ensemble.html
@@ -117,7 +117,7 @@ columns." />
       <a href="../articles/getting-started-with-modeltime-ensemble.html">Getting Started with Modeltime</a>
     </li>
     <li>
-      <a href="../articles/recursive-ensembles.html">Recursive Ensemble Forecasting</a>
+      <a href="../articles/recursive-ensembles.html">Autoregressive Forecasting (Recursive Ensembles)</a>
     </li>
   </ul>
 </li>

diff --git a/docs/news/index.html b/docs/news/index.html
@@ -115,7 +115,7 @@
       <a href="../articles/getting-started-with-modeltime-ensemble.html">Getting Started with Modeltime</a>
     </li>
     <li>
-      <a href="../articles/recursive-ensembles.html">Recursive Ensemble Forecasting</a>
+      <a href="../articles/recursive-ensembles.html">Autoregressive Forecasting (Recursive Ensembles)</a>
     </li>
   </ul>
 </li>

diff --git a/docs/reference/ensemble_average.html b/docs/reference/ensemble_average.html
@@ -116,7 +116,7 @@
       <a href="../articles/getting-started-with-modeltime-ensemble.html">Getting Started with Modeltime</a>
     </li>
     <li>
-      <a href="../articles/recursive-ensembles.html">Recursive Ensemble Forecasting</a>
+      <a href="../articles/recursive-ensembles.html">Autoregressive Forecasting (Recursive Ensembles)</a>
     </li>
   </ul>
 </li>

diff --git a/docs/reference/ensemble_weighted.html b/docs/reference/ensemble_weighted.html
@@ -116,7 +116,7 @@
       <a href="../articles/getting-started-with-modeltime-ensemble.html">Getting Started with Modeltime</a>
     </li>
     <li>
-      <a href="../articles/recursive-ensembles.html">Recursive Ensemble Forecasting</a>
+      <a href="../articles/recursive-ensembles.html">Autoregressive Forecasting (Recursive Ensembles)</a>
     </li>
   </ul>
 </li>

diff --git a/docs/reference/index.html b/docs/reference/index.html
@@ -115,7 +115,7 @@
       <a href="../articles/getting-started-with-modeltime-ensemble.html">Getting Started with Modeltime</a>
     </li>
     <li>
-      <a href="../articles/recursive-ensembles.html">Recursive Ensemble Forecasting</a>
+      <a href="../articles/recursive-ensembles.html">Autoregressive Forecasting (Recursive Ensembles)</a>
     </li>
   </ul>
 </li>

diff --git a/docs/reference/pipe.html b/docs/reference/pipe.html
@@ -116,7 +116,7 @@
       <a href="../articles/getting-started-with-modeltime-ensemble.html">Getting Started with Modeltime</a>
     </li>
     <li>
-      <a href="../articles/recursive-ensembles.html">Recursive Ensemble Forecasting</a>
+      <a href="../articles/recursive-ensembles.html">Autoregressive Forecasting (Recursive Ensembles)</a>
     </li>
   </ul>
 </li>

diff --git a/docs/articles/getting-started-with-modeltime-ensemble.html b/docs/articles/getting-started-with-modeltime-ensemble.html
@@ -70,7 +70,7 @@
       <a href="../articles/getting-started-with-modeltime-ensemble.html">Getting Started with Modeltime</a>
     </li>
     <li>
-      <a href="../articles/recursive-ensembles.html">Recursive Ensemble Forecasting</a>
+      <a href="../articles/recursive-ensembles.html">Autoregressive Forecasting (Recursive Ensembles)</a>
     </li>
   </ul>
 </li>

diff --git a/docs/404.html b/docs/404.html
@@ -115,7 +115,7 @@
       <a href="articles/getting-started-with-modeltime-ensemble.html">Getting Started with Modeltime</a>
     </li>
     <li>
-      <a href="articles/recursive-ensembles.html">Recursive Ensemble Forecasting</a>
+      <a href="articles/recursive-ensembles.html">Autoregressive Forecasting (Recursive Ensembles)</a>
     </li>
   </ul>
 </li>
